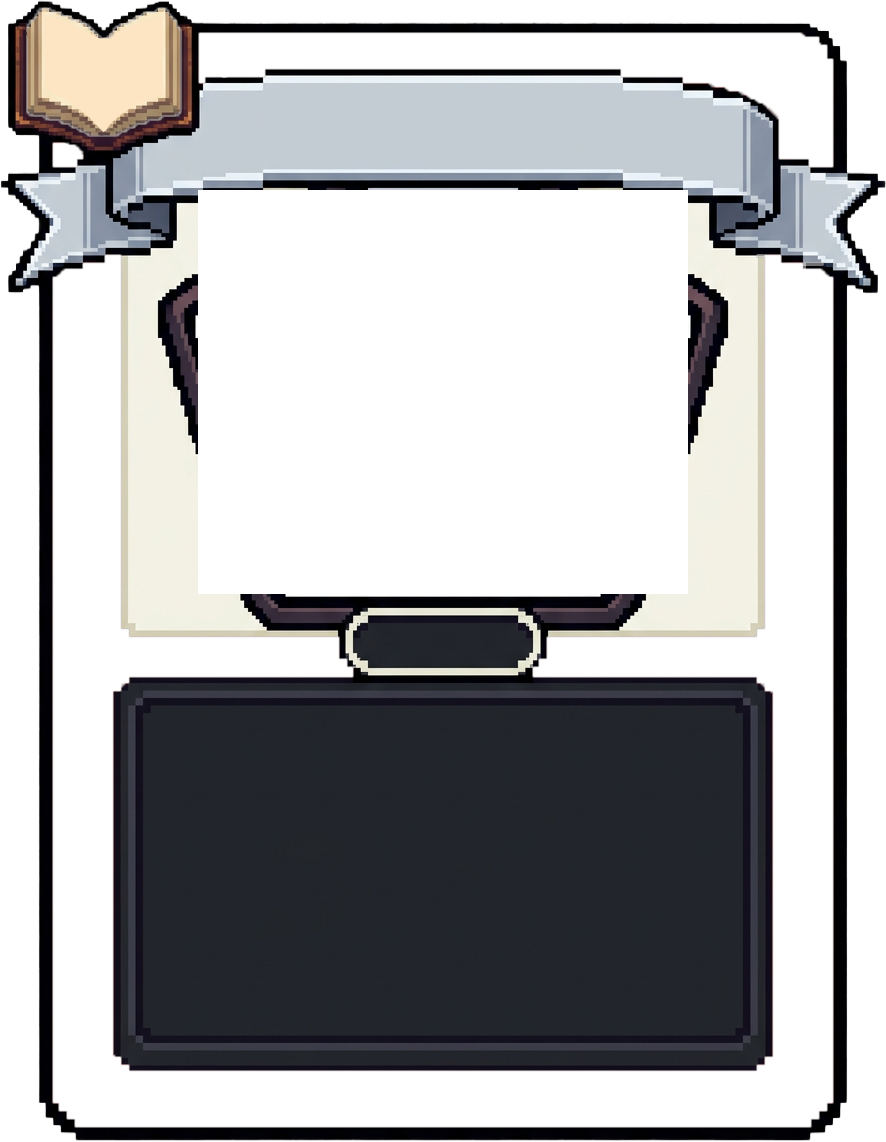
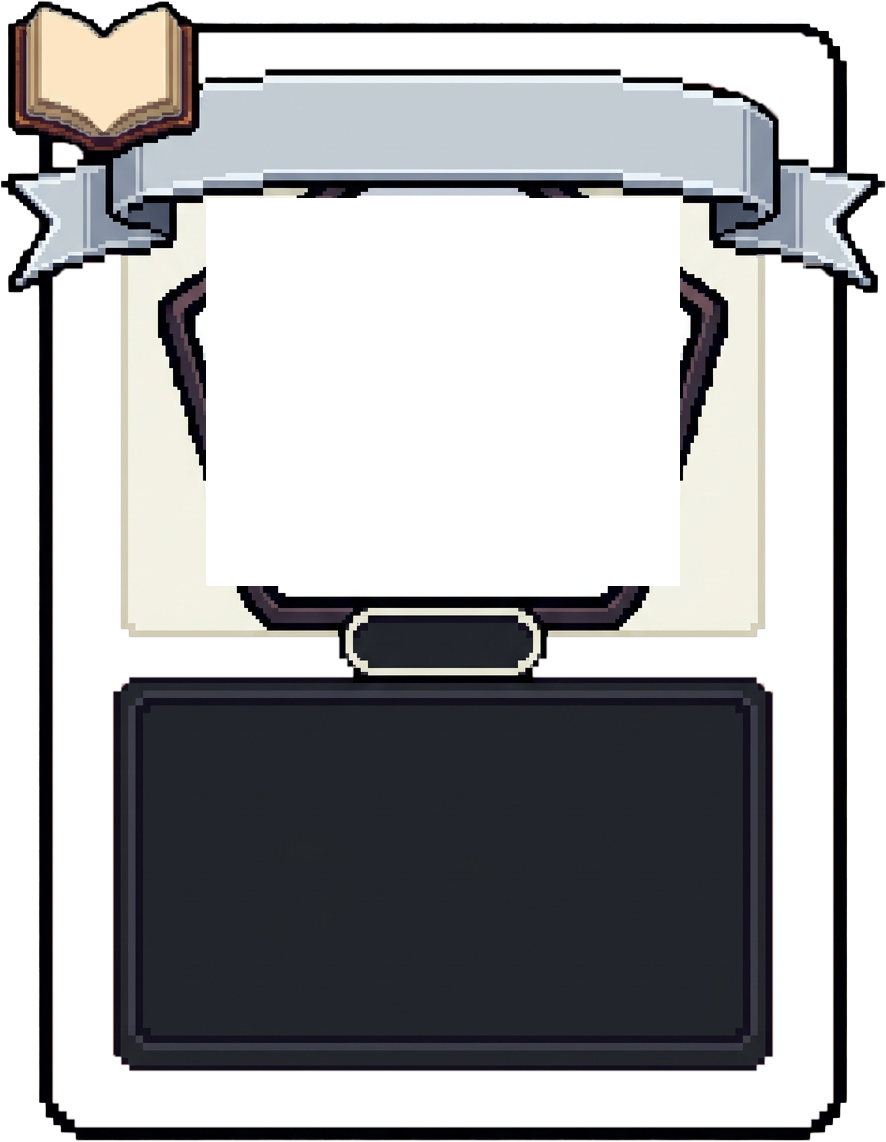
fix: card rendering — art clipping, resolution, text readability
Fixes 6 card rendering issues reported on iPhone 14 Pro Max (430x932):

1. Art bleeding: added overflow:hidden to .card-v2-frame, reduced art
   rect from 72%×48% to 68%×42%, tightened PSD cutout inset 4→12px
2. Blurry frames: added image-rendering:pixelated to .frame-layer
   (pixel art frames were being bilinear-filtered at small sizes)
3. Effect text centering: added display:flex to .v2-effect-text
4. AP cost readability: enhanced text-shadow with 3 glow layers
5. Banner text readability: stronger text-shadow on .v2-mechanic-name
6. Tighter base frame transparency cutout (regenerated all 29 assets)

Changed region(s): [[0.2133, 0.1532, 0.7923, 0.2758], [0.6704, 0.3065, 0.7923, 0.521], [0.2133, 0.3065, 0.3047, 0.521]]

diff --git a/src/ui/components/CardHand.svelte b/src/ui/components/CardHand.svelte
@@ -1468,6 +1468,7 @@
     inset: 0;
     width: 100%;
     height: 100%;
+    overflow: hidden; /* clips art to frame boundaries */
   }
 
   .frame-layer {
@@ -1477,18 +1478,20 @@
     height: 100%;
     object-fit: contain;
     pointer-events: none;
+    image-rendering: pixelated; /* crisp pixel art rendering */
   }
 
   .frame-card-art {
     position: absolute;
     /* Cover the pentagon art window area — base frame masks edges naturally */
-    left: 14%;
-    top: 12%;
-    width: 72%;
-    height: 48%;
+    left: 16%;
+    top: 14%;
+    width: 68%;
+    height: 42%; /* reduced from 48% to stay inside pentagon */
     object-fit: cover;
     image-rendering: auto; /* smooth for photo-like art */
     pointer-events: none;
+    border-radius: 4px; /* subtle rounding to match pentagon corners */
   }
 
   .upgrade-icon {
@@ -1564,7 +1567,8 @@
     text-shadow:
       2px 2px 0 #000, -2px -2px 0 #000,
       2px -2px 0 #000, -2px 2px 0 #000,
-      0 3px 6px rgba(0,0,0,0.8);
+      0 3px 6px rgba(0,0,0,0.8),
+      0 0 4px rgba(0,0,0,0.9), 0 1px 2px rgba(0,0,0,0.8), 0 0 8px rgba(0,0,0,0.5);
     line-height: 1;
   }
 
@@ -1574,7 +1578,7 @@
     font-size: calc(var(--card-w) * 0.09);
     color: #ffffff;
     text-transform: capitalize;
-    text-shadow: 0 1px 3px rgba(0,0,0,0.6);
+    text-shadow: 0 1px 3px rgba(0,0,0,0.9), 0 0 6px rgba(0,0,0,0.7);
     white-space: nowrap;
     overflow: hidden;
     text-overflow: ellipsis;
@@ -1609,6 +1613,7 @@
     font-weight: 600;
     color: #ffffff;
     text-shadow: 0 1px 2px rgba(0,0,0,0.5);
+    display: flex;
     align-items: center;
     justify-content: center;
     text-align: center;

diff --git a/scripts/extract-card-frame.py b/scripts/extract-card-frame.py
@@ -141,7 +141,7 @@ def main() -> None:
     base_arr = np.array(base_canvas)
     # Art window rectangle from PSD guide: x=194, y=186, w=498, h=412
     ART_X, ART_Y, ART_W, ART_H = 194, 186, 498, 412
-    inset = 4  # small inset so the pentagon border isn't clipped
+    inset = 12  # tighter inset so art doesn't bleed outside the pentagon border
     base_arr[ART_Y + inset : ART_Y + ART_H - inset, ART_X + inset : ART_X + ART_W - inset, 3] = 0
     base_canvas = Image.fromarray(base_arr)
     out_path = OUT_DIR / "card-frame-base.webp"
